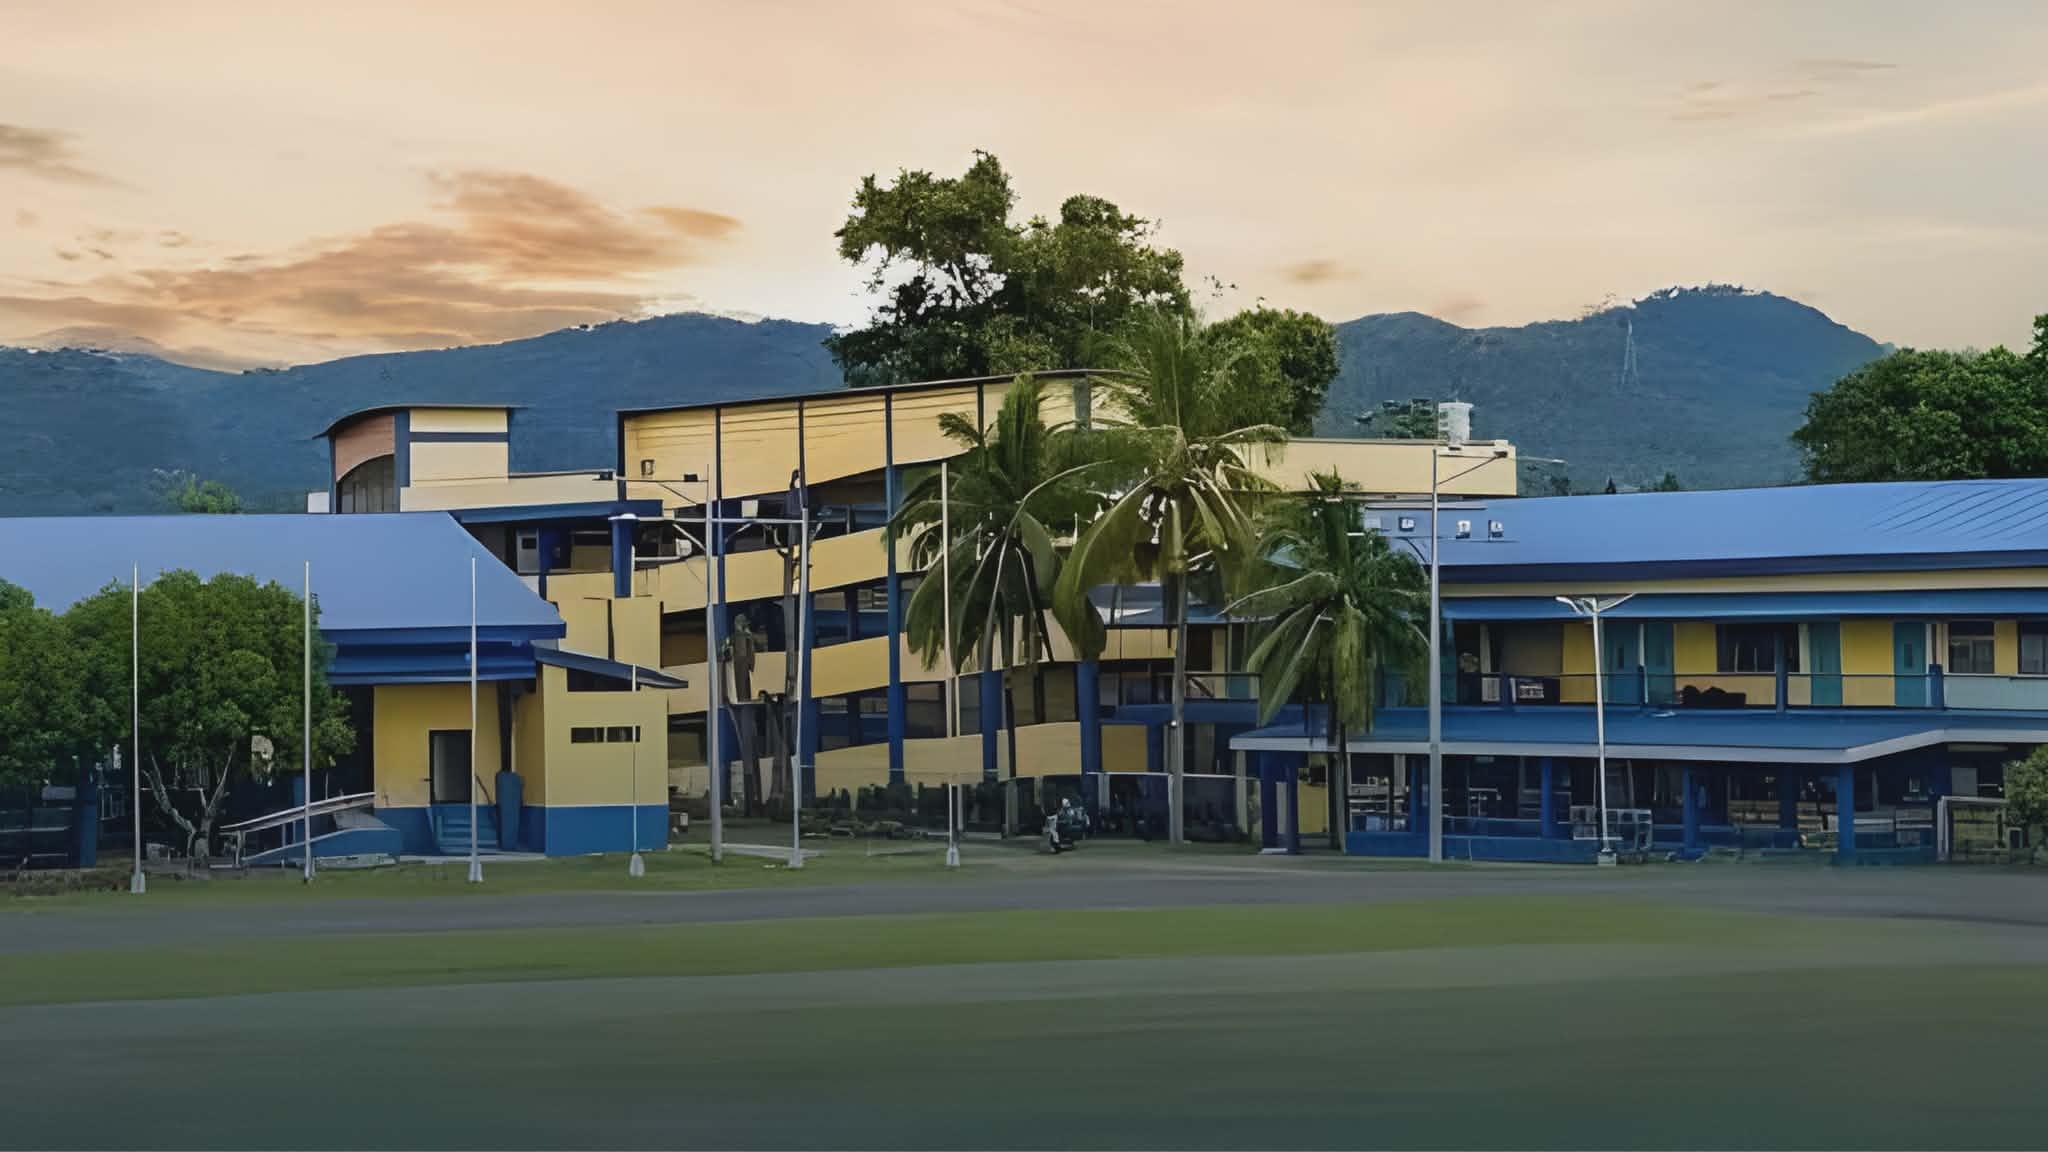
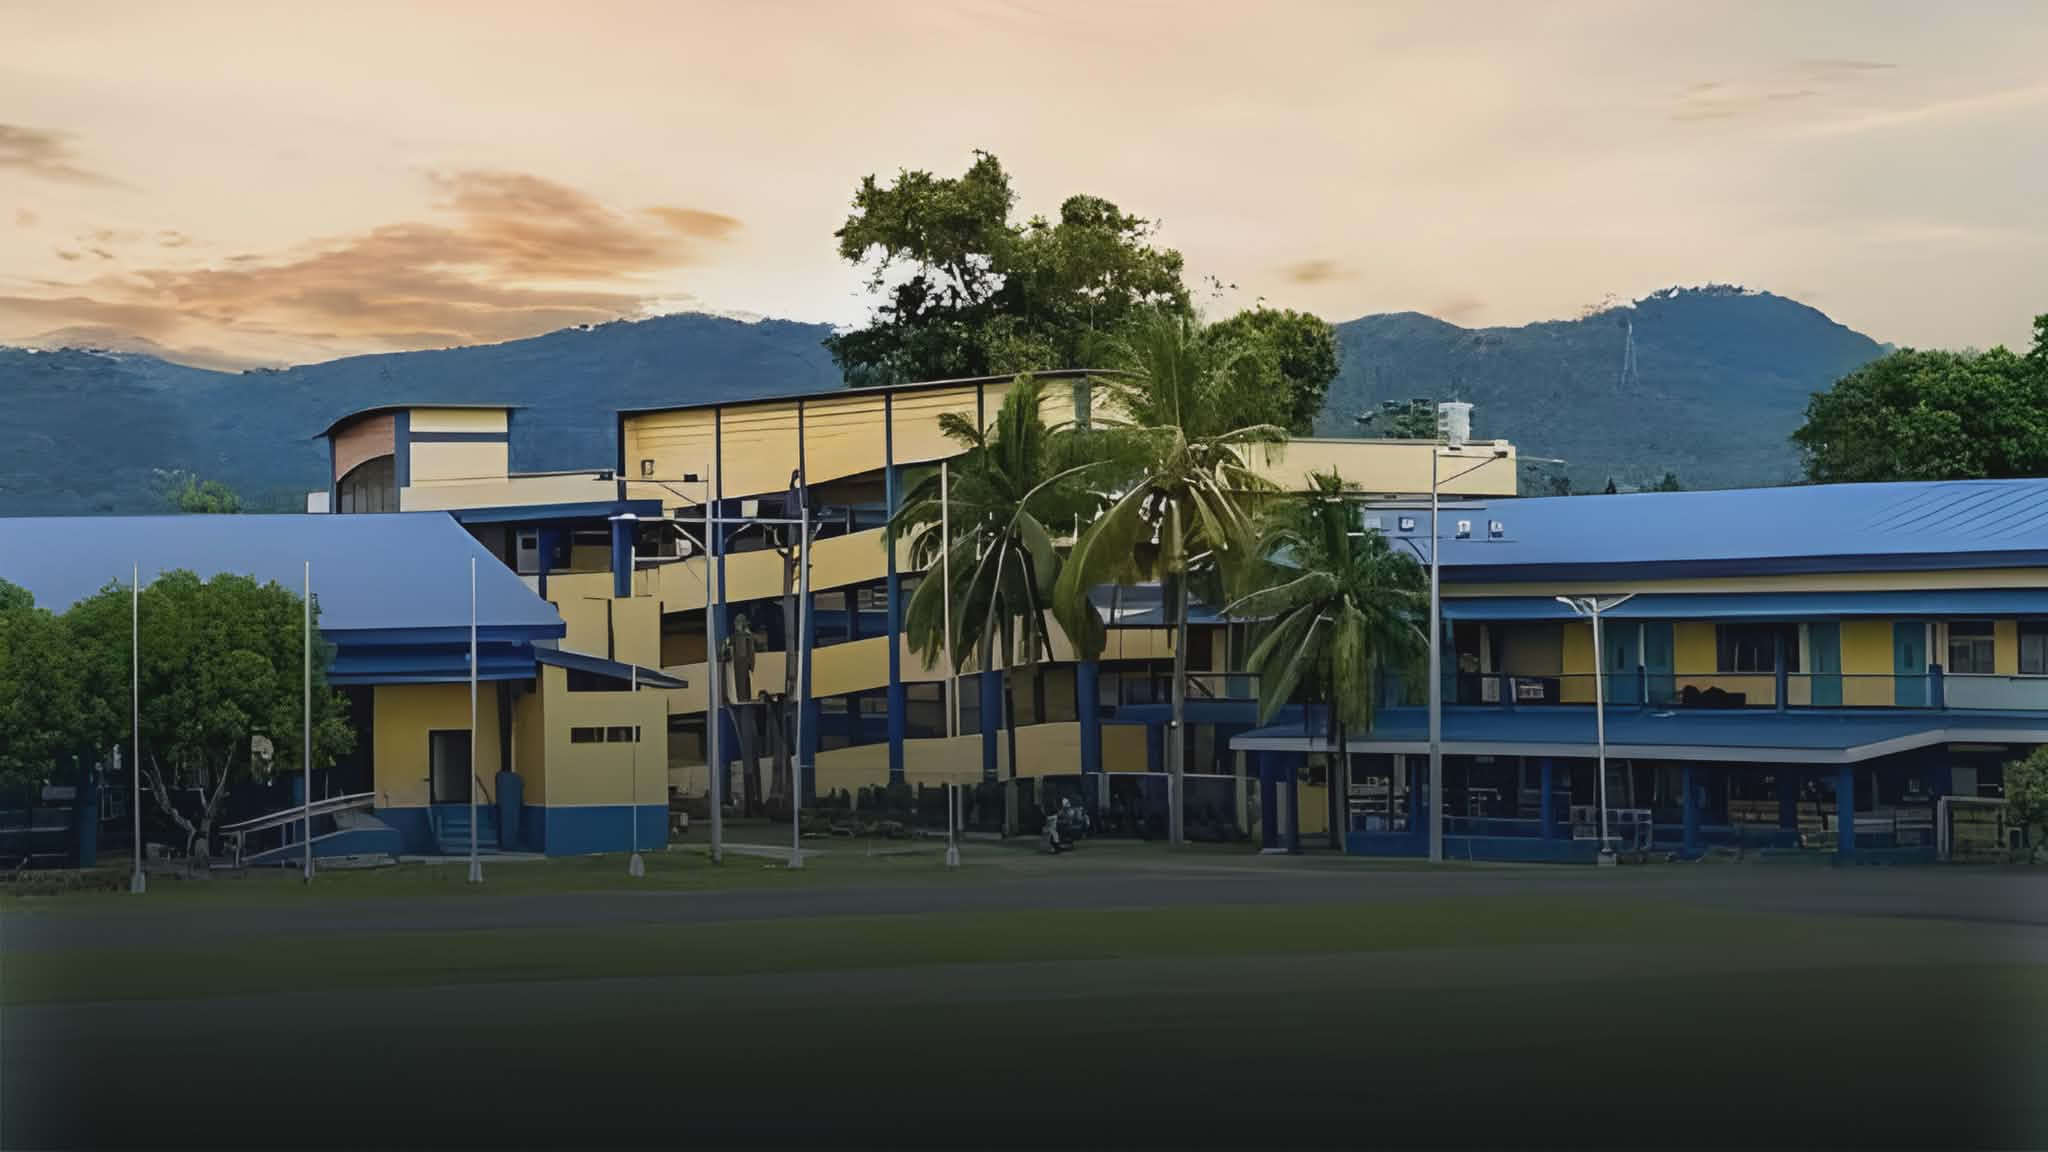
Push

Changed region(s): [[0.0, 0.5938, 1.0, 1.0], [0.125, 0.625, 0.1562, 0.6562]]

diff --git a/src/views/Dashboard.vue b/src/views/Dashboard.vue
@@ -6686,6 +6686,7 @@ const fetchAttendanceData = async () => {
   
   try {
     if (isAdmin) {
+      console.log('Fetching admin attendance events...')
       const response = await fetch('/apis/attendance/events', {
         method: 'GET',
         headers: {
@@ -6693,11 +6694,18 @@ const fetchAttendanceData = async () => {
           'X-SSAAM-TS': encodeTimestamp()
         }
       })
+      console.log('Admin attendance events response status:', response.status)
       if (response.ok) {
         const result = await response.json()
+        console.log('Admin attendance events data:', result)
         attendanceEvents.value = result.data || []
+      } else {
+        const errorText = await response.text()
+        console.error('Admin attendance events fetch error:', response.status, errorText)
+        throw new Error(`Admin fetch failed: ${response.status}`)
       }
     } else {
+      console.log('Fetching student attendance records...')
       const [eventsRes, upcomingRes, myRecordsRes] = await Promise.all([
         fetch('/apis/attendance/events/active', {
           method: 'GET',
@@ -6722,42 +6730,48 @@ const fetchAttendanceData = async () => {
         })
       ])
       
-      if (eventsRes.ok) {
-        const eventsResult = await eventsRes.json()
-        attendanceEvents.value = eventsResult.data || []
+      console.log('Student fetch statuses:', {
+        events: eventsRes.status,
+        upcoming: upcomingRes.status,
+        myRecords: myRecordsRes.status
+      })
+
+      if (!eventsRes.ok || !upcomingRes.ok || !myRecordsRes.ok) {
+        throw new Error('One or more student fetches failed')
       }
-      if (upcomingRes.ok) {
-        const upcomingResult = await upcomingRes.json()
-        upcomingEventsData.value = upcomingResult.data || []
-      }
-      if (myRecordsRes.ok) {
-        const recordsResult = await myRecordsRes.json()
-        const records = recordsResult.data || []
-        myAttendanceRecords.value = records.map((r, idx) => {
-          const eventId = r.event?._id || r.event_id || `record-${idx}`
-          return {
-            ...r,
-            _id: eventId,
-            event_id: eventId,
-            event_title: r.event?.title,
-            sessions: (r.sessions || []).map((s, sIdx) => ({
-              ...s,
-              session: s.session || {},
-              session_id: s.session?._id || `session-${sIdx}`,
-              attendance: s.attendance || { check_in_at: null, check_out_at: null, status: 'absent' }
-            })),
-            overall_status: r.overall_status || 'absent',
-            check_in_at: r.attendance?.check_in_at,
-            check_out_at: r.attendance?.check_out_at,
-            morning_check_in_at: r.attendance?.morning_check_in_at,
-            morning_check_out_at: r.attendance?.morning_check_out_at,
-            afternoon_check_in_at: r.attendance?.afternoon_check_in_at,
-            afternoon_check_out_at: r.attendance?.afternoon_check_out_at,
-            is_late: r.attendance?.is_late,
-            status: r.attendance?.status || r.overall_status || 'absent'
-          }
-        })
-      }
+
+      const eventsResult = await eventsRes.json()
+      attendanceEvents.value = eventsResult.data || []
+      
+      const upcomingResult = await upcomingRes.json()
+      upcomingEventsData.value = upcomingResult.data || []
+      
+      const recordsResult = await myRecordsRes.json()
+      const records = recordsResult.data || []
+      myAttendanceRecords.value = records.map((r, idx) => {
+        const eventId = r.event?._id || r.event_id || `record-${idx}`
+        return {
+          ...r,
+          _id: eventId,
+          event_id: eventId,
+          event_title: r.event?.title,
+          sessions: (r.sessions || []).map((s, sIdx) => ({
+            ...s,
+            session: s.session || {},
+            session_id: s.session?._id || `session-${sIdx}`,
+            attendance: s.attendance || { check_in_at: null, check_out_at: null, status: 'absent' }
+          })),
+          overall_status: r.overall_status || 'absent',
+          check_in_at: r.attendance?.check_in_at,
+          check_out_at: r.attendance?.check_out_at,
+          morning_check_in_at: r.attendance?.morning_check_in_at,
+          morning_check_out_at: r.attendance?.morning_check_out_at,
+          afternoon_check_in_at: r.attendance?.afternoon_check_in_at,
+          afternoon_check_out_at: r.attendance?.afternoon_check_out_at,
+          is_late: r.attendance?.is_late,
+          status: r.attendance?.status || r.overall_status || 'absent'
+        }
+      })
     }
   } catch (error) {
     console.error('Failed to fetch attendance data:', error)

diff --git a/src/views/Login.vue b/src/views/Login.vue
@@ -446,7 +446,7 @@ const requestResetCode = async () => {
   resetMessage.value = ''
   try {
     const token = encodeTimestamp()
-    const response = await fetch('https://ssaam-api.vercel.app/apis/password-reset/request', {
+    const response = await fetch('/apis/password-reset/request', {
       method: 'POST',
       headers: { 
         'Content-Type': 'application/json',
@@ -481,7 +481,7 @@ const verifyResetCode = async () => {
   resetMessage.value = ''
   try {
     const token = encodeTimestamp()
-    const response = await fetch('https://ssaam-api.vercel.app/apis/password-reset/verify', {
+    const response = await fetch('/apis/password-reset/verify', {
       method: 'POST',
       headers: { 
         'Content-Type': 'application/json',
@@ -522,7 +522,7 @@ const completePasswordReset = async () => {
   resetMessage.value = ''
   try {
     const token = encodeTimestamp()
-    const response = await fetch('https://ssaam-api.vercel.app/apis/password-reset/complete', {
+    const response = await fetch('/apis/password-reset/complete', {
       method: 'POST',
       headers: { 
         'Content-Type': 'application/json',
@@ -600,7 +600,7 @@ onMounted(async () => {
   
   // Check login settings
   try {
-    const response = await fetch('https://ssaam-api.vercel.app/apis/settings', {
+    const response = await fetch('/apis/settings', {
       method: 'GET',
       headers: {
         'Authorization': 'Bearer SSAAMStudents'
@@ -658,7 +658,7 @@ const handleLogin = async () => {
     
     if (startsWithLetter) {
       // Use masters login API with POST
-      const response = await fetch("https://ssaam-api.vercel.app/apis/masters/login", {
+      const response = await fetch("/apis/masters/login", {
         method: 'POST',
         headers: {
           'Content-Type': 'application/json',
@@ -684,7 +684,7 @@ const handleLogin = async () => {
       }
     } else {
       // Use POST login endpoint for students
-      const response = await fetch("https://ssaam-api.vercel.app/apis/students/login", {
+      const response = await fetch("/apis/students/login", {
         method: 'POST',
         headers: {
           'Content-Type': 'application/json',

diff --git a/src/views/Register.vue b/src/views/Register.vue
@@ -847,7 +847,7 @@ const stepTitle = computed(() => {
 
 onMounted(async () => {
   try {
-    const response = await fetch('https://ssaam-api.vercel.app/apis/settings', {
+    const response = await fetch('/apis/settings', {
       method: 'GET',
       headers: {
         'Authorization': 'Bearer SSAAMStudents'
@@ -1127,7 +1127,7 @@ const sendVerificationCode = async () => {
   }
 
   try {
-    const response = await fetch('https://ssaam-api.vercel.app/apis/students/send-verification', {
+    const response = await fetch('/apis/students/send-verification', {
       method: 'POST',
       headers: { 
         'Content-Type': 'application/json',
@@ -1287,7 +1287,7 @@ const handleNext = async () => {
     loadingSubMessage.value = 'Please wait while we create your account'
     
     try {
-      const response = await fetch('https://ssaam-api.vercel.app/apis/students/verify-and-register', {
+      const response = await fetch('/apis/students/verify-and-register', {
         method: 'POST',
         headers: { 
           'Content-Type': 'application/json',

diff --git a/vite.config.js b/vite.config.js
@@ -11,7 +11,7 @@ export default defineConfig({
       '/apis': {
         target: 'https://ssaam-api.vercel.app',
         changeOrigin: true,
-        secure: true
+        secure: false
       }
     }
   }
